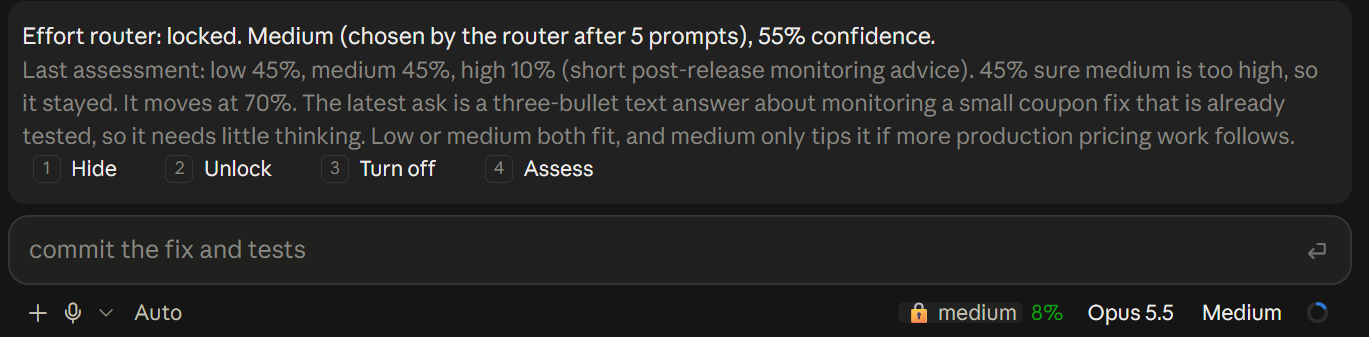
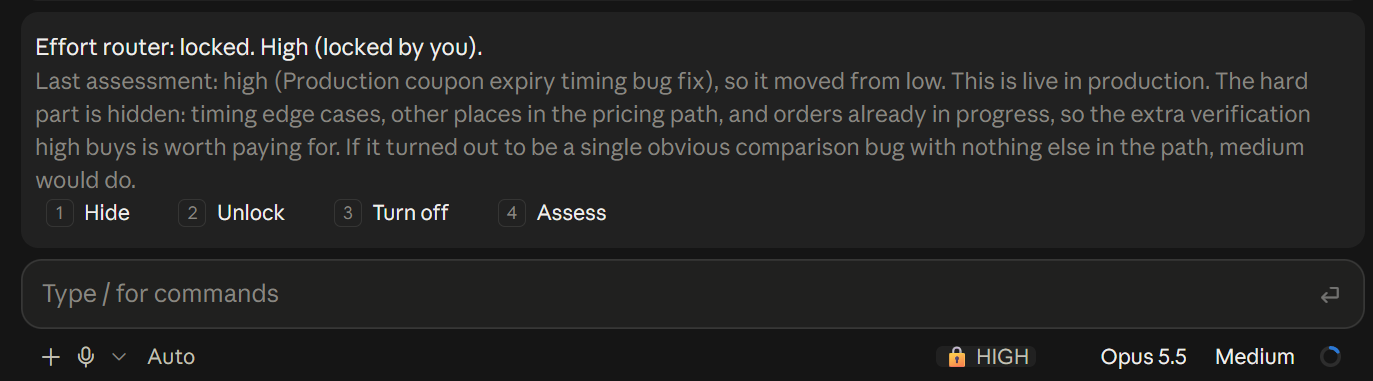
README: lead with the race, show how to read the footer, new band screenshots

diff --git a/effort-router/README.md b/effort-router/README.md
@@ -4,7 +4,7 @@ A Claude Code plugin that saves time and money by running each task at the lowes
 session's own model assesses each of your first five prompts and moves the level to whichever gets the work done fastest
 and cheapest, up or down. Then the level locks for the rest of the session. Each subagent gets its own level, chosen by the agent that launches it.
 
-<img src="docs/demo.gif" width="560" alt="A Claude Code session in the Desktop app with the effort picker on Medium. A rename is assessed and moved to low, then a production coupon bug is assessed and moved from low to high, and the band shows the last assessment">
+<img src="docs/race.gif" width="720" alt="A race between two Claude Code sessions on the same three chores, Fable 5.1 set to xhigh. Fixed at xhigh it takes 8:28 and $3.74. With effort-router the main thread moves to medium and its subagents to low, medium and low, and it takes 2:24 and $1.64. All 7 hidden tests pass on both">
 
 It works with Fable 5.1, Opus 5.5 and Sonnet 5.5, in the terminal and in the Desktop app's Code tab. It requires
 Claude Code 2.1.286 or later.
@@ -106,6 +106,8 @@ Before 0.18 the model gave every level a probability and the router moved only w
 
 The footer sits beside the native model and effort pickers. It shows the router's status, the level running and, while unlocked, how much of the window is used.
 
+<img src="docs/footer.gif" width="720" alt="The footer in the Desktop app. A rename is assessed and moves from medium to low, a production bug moves from low to high while the effort picker still says Medium, and clicking the footer opens the band">
+
 | Footer | What it means |
 | --- | --- |
 | `🔓 MEDIUM ○` | Unlocked, nothing assessed yet. Your setting (medium) runs |
@@ -142,7 +144,7 @@ The four buttons always sit in the same slots, so the digit keys are learnable. 
 | 3 | Turn off | Turn off | Turn on, unlocked |
 | 4 | Assess (greyed out) | Assess | Turn on and assess |
 
-![The band in the Desktop app after the router locked at medium, with the last assessment and why](docs/band-locked.png)
+![The band in the Desktop app after you locked it at high, with the last assessment and why](docs/band-locked.png)
 
 - **Lock** ends assessing early when the level is plainly right.
 - **Unlock** keeps the locked level running and assesses your next five prompts from there. Use it when you're about to steer the work somewhere new.

diff --git a/README.md b/README.md
@@ -10,7 +10,7 @@ Claude Code runs every task at the effort level you picked, whether it's renamin
 touches three services. Anthropic's [Spending your effort](https://claude.dev/blog/spending-your-effort/) says the
 right level depends on the task. effort-router picks it for you, so easy work stops paying for thinking it doesn't need.
 
-<img src="effort-router/docs/demo.gif" width="560" alt="A Claude Code session in the Desktop app. A rename is assessed and moved down to low, then a production bug is assessed and moved up to high">
+<img src="effort-router/docs/race.gif" width="720" alt="A race between two Claude Code sessions on the same three chores, Fable 5.1 set to xhigh. Fixed at xhigh it takes 8:28 and $3.74. With effort-router the main thread moves to medium and its subagents to low, medium and low, and it takes 2:24 and $1.64. All 7 hidden tests pass on both">
 
 - **Your session.** Your session's own model assesses each of your first five prompts and moves the level to the one
   that gets the work done fastest and cheapest, then locks. The footer shows the level in use, and clicking it gives
@@ -19,6 +19,8 @@ right level depends on the task. effort-router picks it for you, so easy work st
   the router every subagent runs at your level.
 - **Your rules.** Add to the routing rules in plain markdown, per user, per project or for a whole organisation.
 - **Where it went.** `/er report` shows the requests and output tokens at each level, and what the router changed.
+
+<img src="effort-router/docs/footer.gif" width="720" alt="The footer in the Desktop app. A rename is assessed and moves from medium to low, a production bug moves from low to high while the effort picker still says Medium, and clicking the footer opens the band">
 
 It works with Fable 5.1, Opus 5.5 and Sonnet 5.5, in the Desktop app's Code tab and in the terminal.
 
